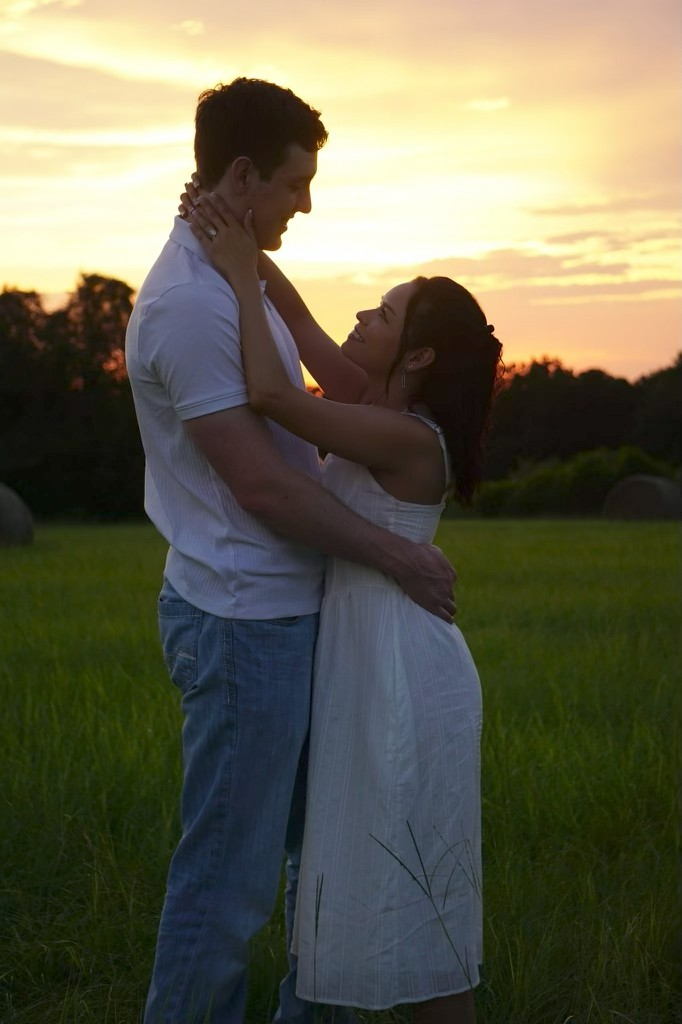
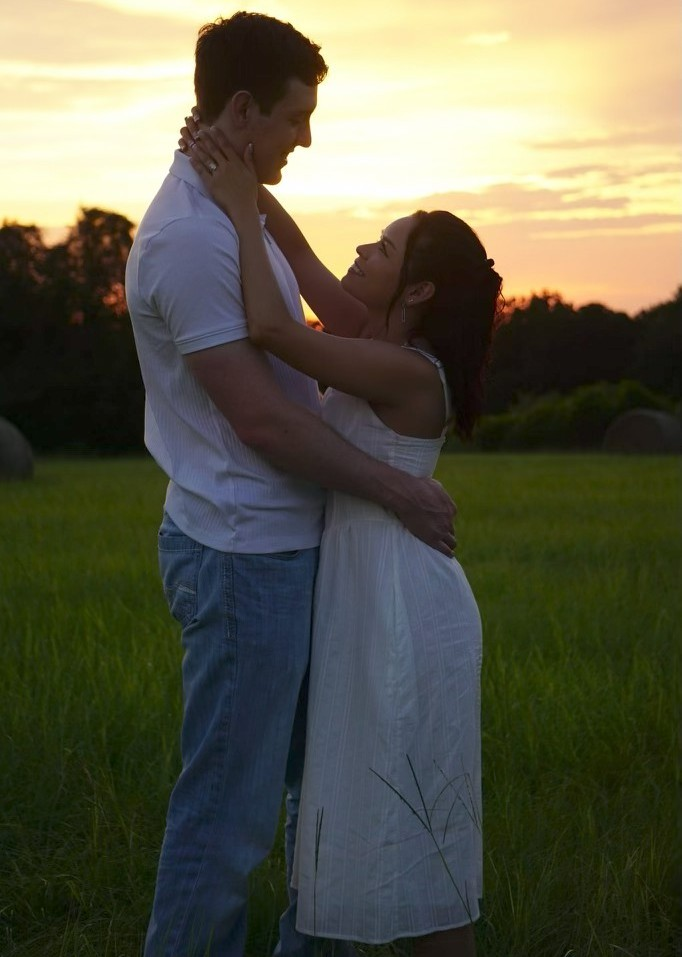
Backup

diff --git a/app/page.tsx b/app/page.tsx
@@ -1,11 +1,37 @@
 import "./globals.css";
+import Image from "next/image";
+import { Parisienne } from 'next/font/google';
+
+const parisienne = Parisienne({ subsets: ['latin'], weight: '400' });
 
 export default function Home() {
   return (
     <section className="flex flex-col pt-28 items-center w-screen h-screen text-[var(--foreground)]">
-      <div className="bg-[url('/20250802_011945000_iOS.jpg')] bg-cover bg-no-repeat bg-[position:center_10%] w-full max-w-4xl h-150 rounded-lg border-10 border-[var(--foreground)] mt-4"></div>
-      <div className="w-full h-40 flex items-center justify-center">
-        <h1 className="text-2xl sm:text-4xl font-bold">Welcome to the Home Page</h1>
+      <div className="relative w-full max-w-[85%] sm:max-w-225 md:max-w-[70%] h-[60%] sm:h-[80%] md:h-[80%] mt-8 shadow-lg">
+        <Image
+          src="/20250802_011945000_iOS.jpg"
+          alt="Description"
+          fill
+          style={{ objectFit: "cover", objectPosition: "center top" }}
+          className="rounded-lg shadow-lg"
+          sizes="(max-width: 620px) 100vw, 100vw"
+          priority
+        />
+      </div>
+      <div className="flex w-full max-w-[100%] sm:max-w-[80%] md:max-w-[50%] items-center justify-center">
+        <Image
+          src="/b95c293c-13cd-4b79-9559-ea1a4507ee77.png"
+          alt="Description"
+          width={800}
+          height={200}
+          style={{ objectFit: "cover", objectPosition: "center" }}
+          className="w-325 h-full"
+          priority
+        />
+      </div>
+      <div className="w-full h-40 flex items-center justify-center mt-0">
+        <h1
+          className={`text-4xl sm:text-6xl flex-wrap font-bold text-center ${parisienne.className}`}>Kyge Polling <br /> & <br /> Alyssa Solis</h1>
       </div>
     </section>
   );

diff --git a/app/utils/nav.tsx b/app/utils/nav.tsx
@@ -2,6 +2,7 @@
 import Link from "next/link";
 import { useState } from "react";
 import "../globals.css";
+import styles from './nav.module.css';
 import { Parisienne } from 'next/font/google';
 
 const parisienne = Parisienne({
@@ -13,7 +14,7 @@ export default function Nav() {
   const [open, setOpen] = useState(false);
 
   return (
-  <nav className="fixed top-0 left-0 w-full z-50 flex flex-col items-center text-[var(--foreground)] shadow-md">
+  <nav className="fixed top-0 left-0 w-full z-50 flex flex-col items-center text-[var(--foreground)] shadow-md bg-[var(--background)]">
       {/* Overlay for mobile menu */}
       {open && (
         <div
